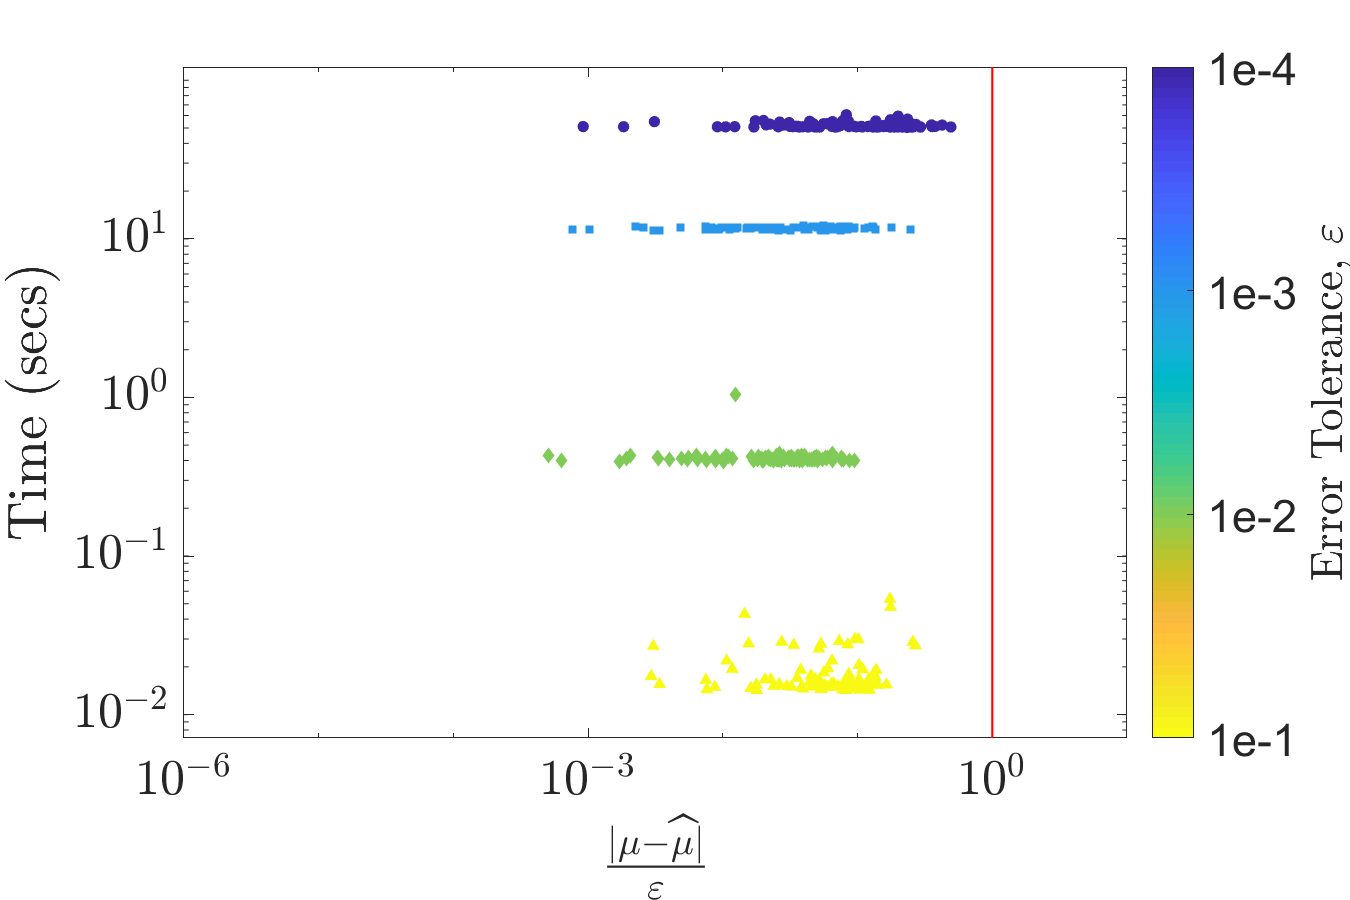
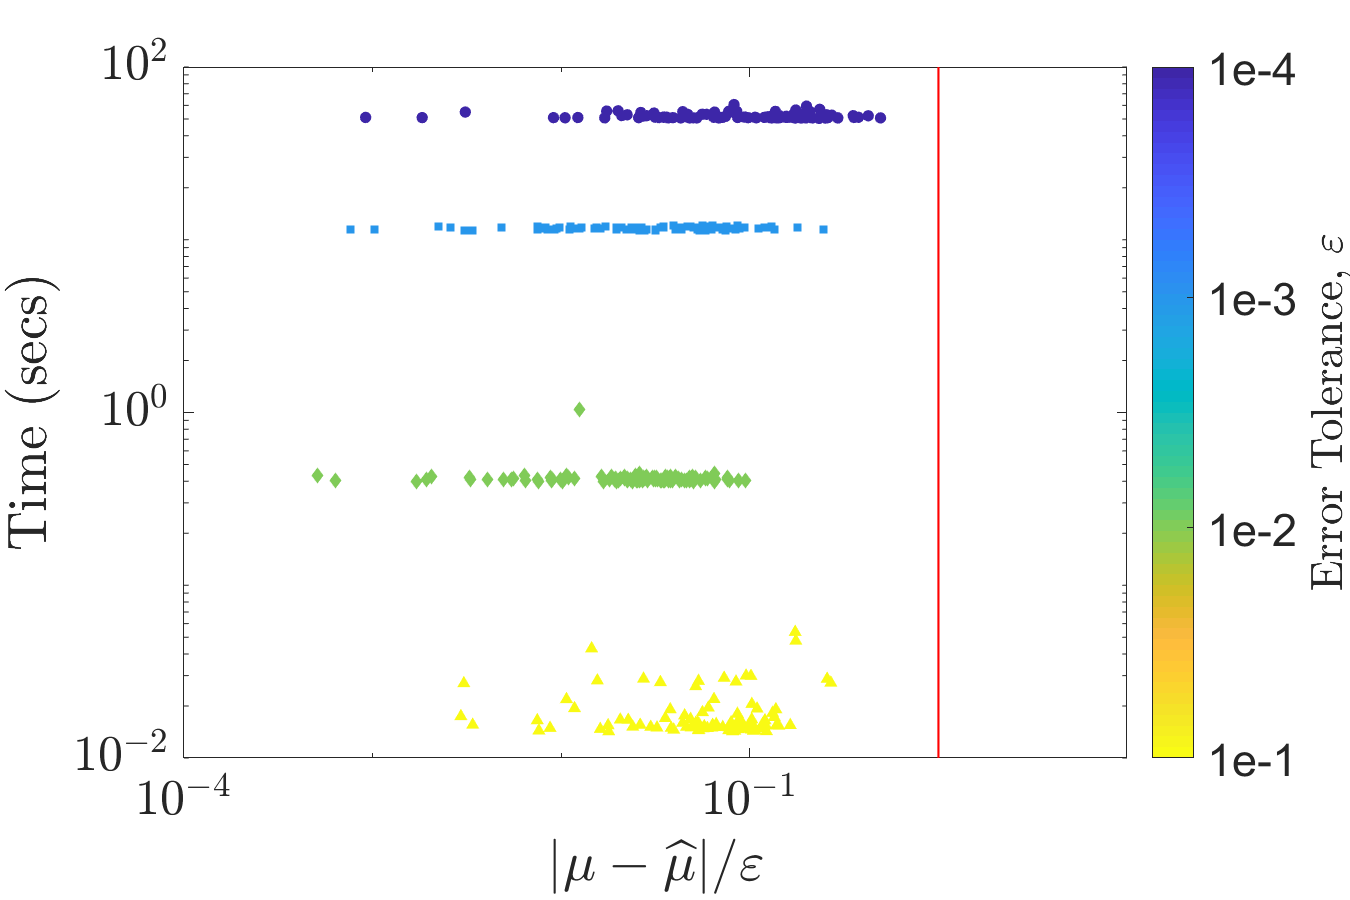
Matern guaranteed plots bug fixed, other plots revised for y-axis

diff --git a/GAIL_Matlab/Papers/Thesis/Jagadees/matern_guaranteed_plots.m b/GAIL_Matlab/Papers/Thesis/Jagadees/matern_guaranteed_plots.m
@@ -77,7 +77,7 @@ muhatVec(nRep,1) = 0;
 indx = 1;
 
 matFilePath = 'D:\Dropbox\fjhickernellGithub\GAIL_Dev-BayesianCubature\GAIL_Matlab\Papers\Thesis\Jagadees\Paper2018\figures\';
-filename = 'matern_guranteed_2018-Aug-29';
+filename = 'matern_guranteed_2018-Aug-31';
 matFileName = [matFilePath filename '.mat'];
 if exist(matFileName, 'file') == 2
   S = load(matFileName);
@@ -117,19 +117,20 @@ end
 fprintf('done')
 
 timeVec = [S.outVec.time];
-errVec = abs(S.muhatVec-S.muBest);
+errVec = [abs(S.muhatVec-S.muBest)];
+tolVec = [S.outVec.absTol]';
+errVec = errVec./tolVec;
 S.timeVec = reshape(timeVec, [], length(errTolVec));
 S.errVec = reshape(errVec, [], length(errTolVec));
 S.log10ErrVec = log10ErrVec;
 % S.tolVec = repmat(errTolVec, length(timeVec)/length(errTolVec),1);
-tolVec = [S.outVec.absTol];
 S.tolVec = reshape(tolVec, [], length(errTolVec));
 S.testFunArg = struct(S.inputArgs{:});
 timeStamp = S.timeStamp;
 
 pointSize = 30;
 pointShapes = {'o','s','d','^','v','<','>','p','h'};
-errVecLimits = [1E-7, 1E1];
+errVecLimits = [1E-6, 1E1];
 
 figH = figure();
 set(figH, 'units', 'inches', 'Position', [1 1 9 6])
@@ -139,6 +140,7 @@ set(figH, 'units', 'inches', 'Position', [1 1 9 6])
 %plot([1, 1], timeAxisLimits, 'r', 'LineWidth',1)
 timeTicksLimits(1) = floor(log10(min(S.timeVec(:)))); 
 timeTicksLimits(2) = ceil(log10(max(S.timeVec(:))));
+timeTickInterval = ceil(diff(timeTicksLimits)/3);
 plot([1, 1], 10.^timeTicksLimits, 'r', 'LineWidth',1)
 hold on
 
@@ -160,11 +162,12 @@ c.Label.String = 'Error Tolerance, $\varepsilon$';
 
 %assert(max(timeVec(:)) <= timeLimits(2), sprintf('time val greater than max limit %d', timeLimits(2)))
 axis([errVecLimits(1) errVecLimits(2) 10^timeTicksLimits(1) 10^timeTicksLimits(2) ])
-
-%timeTicksLimits(1) = floor(log10(min(S.timeVec(:))));
-%timeTicksLimits(2) = floor(log10(max(S.timeVec(:))));
+timeTicksVec = (timeTicksLimits(1) :timeTickInterval: timeTicksLimits(2));
+if timeTicksVec(end) ~= timeTicksLimits(2)
+  timeTicksVec(end+1) = timeTicksLimits(2);
+end
 set(gca,'Xtick',(10.^(log10(errVecLimits(1)):3:log10(errVecLimits(2)))), ...
-  'YTick',(10.^(timeTicksLimits(1) :1: timeTicksLimits(2))))
+  'YTick',(10.^timeTicksVec))
 
 figSavePathName = sprintf('%s%s_guaranteed_time_Matern_d%d_%s.png', ...
   figSavePath, S.testFunArg.fName,...
@@ -184,7 +187,7 @@ errTolLimits = [1E-6 1E-1];
 axis([errTolLimits(1) errTolLimits(2) 10^timeTicksLimits(1) 10^timeTicksLimits(2)])
 
 set(gca,'Xtick',(10.^(log10(errTolLimits(1)):2:log10(errTolLimits(2)))), ...
-  'YTick',(10.^(timeTicksLimits(1) :1: timeTicksLimits(2))))
+  'YTick',(10.^(timeTicksVec)) )
 set(gca, 'XDir','reverse')
 
 figSavePathName1 = sprintf('%s%s_rapid_time_Matern_d%d_%s.png', ...

diff --git a/GAIL_Matlab/Papers/Thesis/Jagadees/Paper2018/BayesianCubaturePaper2018.tex b/GAIL_Matlab/Papers/Thesis/Jagadees/Paper2018/BayesianCubaturePaper2018.tex
@@ -623,7 +623,7 @@ Our  Bayesian cubature algorithm increases the sample size until the width of th
         
         \EndWhile
         
-        \State Compute $\hmu$, the approximate integral,   according to \eqref{eqn_m_MLE} or \eqref{eqn:muCV}
+        \State Compute $\hmu$, the approximate integral,   according to \eqref{eqn:cubMLE} or \eqref{eqn:muCV}
       \State \Return $\hmu$  and $\err$
   \end{algorithmic}
 \end{algorithm}
@@ -707,19 +707,19 @@ d = 3, \quad \va = \begin{pmatrix}
 \begin{figure}
 \captionsetup[subfigure]{labelformat=empty}
 \centering
-\begin{subfigure}[h]{0.68\linewidth}
-\includegraphics[width=1.1\linewidth]{MVN_guaranteed_time_Matern_d2_2018-Aug-23}
+\begin{subfigure}[h]{0.8\linewidth}
+\includegraphics[width=1.1\linewidth]{MVN_guaranteed_time_Matern_d2_2018-Aug-31}
 \end{subfigure}
-%\centering
-\begin{subfigure}[h]{0.68\linewidth}
-\includegraphics[width=1.1\linewidth]{MVN_rapid_time_Matern_d2_2018-Aug-23}
+\centering
+\begin{subfigure}[h]{0.8\linewidth}
+\includegraphics[width=1.1\linewidth]{MVN_rapid_time_Matern_d2_2018-Aug-31}
 \end{subfigure}
 \caption{Multivariate Normal probability estimated using Matern kernel in d=2 using empirical stopping criterion. Top: Guaranteed integration within error tolerance $\varepsilon$. Bottom: Computation time rapidly increases with increase of $n$}
 \label{fig:MVN_Metern_d2b2}
 \end{figure}
 
 %with Intel i7 3630QM and 16GB RAM memory
-On our test computer, it took 118 minutes to compute $\hmu_n$ with $n=2^{13}$. As shown in Figure \ref{fig:MVN_Metern_d2b2}, computation time increases rapidly with $n$. 
+On our test computer, it took more than an hour to compute $\hmu_n$ with $n=2^{14}$. As shown in Figure \ref{fig:MVN_Metern_d2b2}, computation time increases rapidly with $n$. 
 Especially, Maximum-likelihood-estimation of $\vtheta$ which needs the loss function, is the most time consuming of all. 
 Because the loss functions need to be computed multiple times in every iteration to choose the optimal shape parameter till its minimum is found. 
 Not only the complexity increases, also the kernel matrix becomes highly ill-conditioned with increasing $n$ number of data-points.

diff --git a/GAIL_Matlab/Papers/Thesis/Jagadees/cubBayesMLE_Matern_g.m b/GAIL_Matlab/Papers/Thesis/Jagadees/cubBayesMLE_Matern_g.m
@@ -18,9 +18,9 @@ default_args.f = @(x) x.^2; %function
 default_args.nvec = 2^10; %number of samples
 default_args.whSample = 'Sobol'; %type of sampling, scrambled Sobol
 default_args.whKer = 'Mat1'; %type of kernel
-% default_args.powerFuncMethod = 'cauchy';
-default_args.powerFuncMethod = 'thompson';
-default_args.arbMean = false;
+default_args.powerFuncMethod = 'cauchy';
+%default_args.powerFuncMethod = 'thompson';
+default_args.arbMean = true;
 s_args = parse_args(default_args, varargin{:});
 
 f = s_args.f;
@@ -63,7 +63,7 @@ for ii = 1:nn
   muhatVec(ii) = muhat;
   
   if strcmp(s_args.powerFuncMethod, 'cauchy')
-    eigvalK = eig(K);
+    [eigvecK, eigvalK] = eig(K,'vector');
     eigKaug = eig([k0 kvec'; kvec K]);
     disc2 = exp(sum(log(eigKaug(1:nii)) - log(eigvalK)))*eigKaug(end);
   else
@@ -78,7 +78,18 @@ for ii = 1:nn
   % \vy^T \mC^{-1} \vy - 
   % (\vone^T \mC^{-1} \vy)^2 / (\vone^T \mC^{-1} \vone)
   if s_args.arbMean == true
-    s2 = abs((fx(1:nii)'*Kinvy) - (sum(Kinvy)^2/sum(KinvOne)))/nii;
+    %s2 = abs((fx(1:nii)'*Kinvy) - (sum(Kinvy)^2/sum(KinvOne)))/nii;
+
+    y = fx(1:nii);
+    nx = nii;
+    Vty = eigvecK'*y;
+    % \vy^T \mC^{-1} \vy;
+    parta = Vty'*(Vty./eigvalK);  
+
+    Vtone = eigvecK'*ones(nx,1);
+    % (\vone^T \mC^{-1} \vy)^2 / (\vone^T \mC^{-1} \vone) 
+    partb = (Vtone'*(Vty./eigvalK))^2/(Vtone'*(Vtone./eigvalK));
+    s2 = abs(parta - partb)/nii;
   else
     s2 = fx(1:nii)'*Kinvy/nii;
   end
@@ -110,8 +121,8 @@ nx = size(x,1);
 K = kernelFun(x,whKer,shape,domain);
 [eigvec,eigval] = eig(K,'vector');
 Vty = eigvec'*y;
-% zero mean
 if arbMean==true
+  % arbitrary mean
   % \vy^T \mC^{-1} \vy;
   parta = Vty'*(Vty./eigval);  
 
@@ -121,6 +132,7 @@ if arbMean==true
 
   val = sum(log(eigval))/nx + log(abs(parta - partb));  %corrected
 else
+  % zero mean
   val = sum(log(eigval))/nx + log(Vty'*(Vty./eigval));
 end
 end
